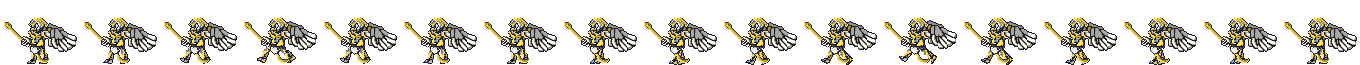
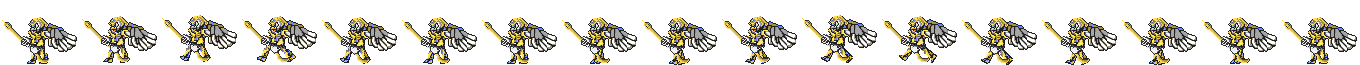
Changed move animation to bounce a little(change back later maybe). Changed a few details of Character Objects to slow character walking animations down.

Changed region(s): [[0.525, 0.2462, 0.7103, 0.9846], [0.0618, 0.2462, 0.2471, 0.9846], [0.525, 0.8, 0.5559, 0.8308]]

diff --git a/src/CharacterObject.cpp b/src/CharacterObject.cpp
@@ -38,6 +38,8 @@ CharacterObject::CharacterObject(std::string Name,int8_t Health,SDL_Renderer* re
     this->isHoldingStrong =false;
     this->isColliding = false;
     this->isAttackingReg = false;
+    this->isRunning = false;
+    this->wasRunningWhenJump = false;
     this->regAttackCount = 0;
     this->StrongAttackCount = 0;
     this->jumpBlock = 0;
@@ -97,7 +99,7 @@ void CharacterObject::InitializeCharacter(std::string Name,SDL_Renderer* rendere
 
         this->char_textures->idleMod = 50;
         this->char_textures->jumpingMod = 20;
-        this->char_textures->moveMod = 20;
+        this->char_textures->moveMod = 30;
         this->char_textures->attackRegMod = 11;
         this->char_textures->attackRegMod2 = 11;
         this->char_textures->fallingMod = 40;

diff --git a/src/include/CharacterObject.h b/src/include/CharacterObject.h
@@ -20,8 +20,11 @@ public:
     void Move(int);
     void CalculateGravity();
     void InitializeHitBoxes(int);
-    const int moveVelX = 2;
+    const int moveVelX = 1;
+    const int runMoveVelX = 2;
     const int moveVelY = 5;
+
+
     int posX, fluct_velx;
     int posY,fluct_vely;
     CharacterTexture* char_textures;
@@ -49,6 +52,9 @@ public:
     bool isAttackingReg;
     bool isHoldingReg;
     bool isHoldingStrong;
+    bool isRunning;
+    bool wasRunningWhenJump;
+
     int  regAttackCount;
     int  StrongAttackCount;
     int  jumpBlock;
